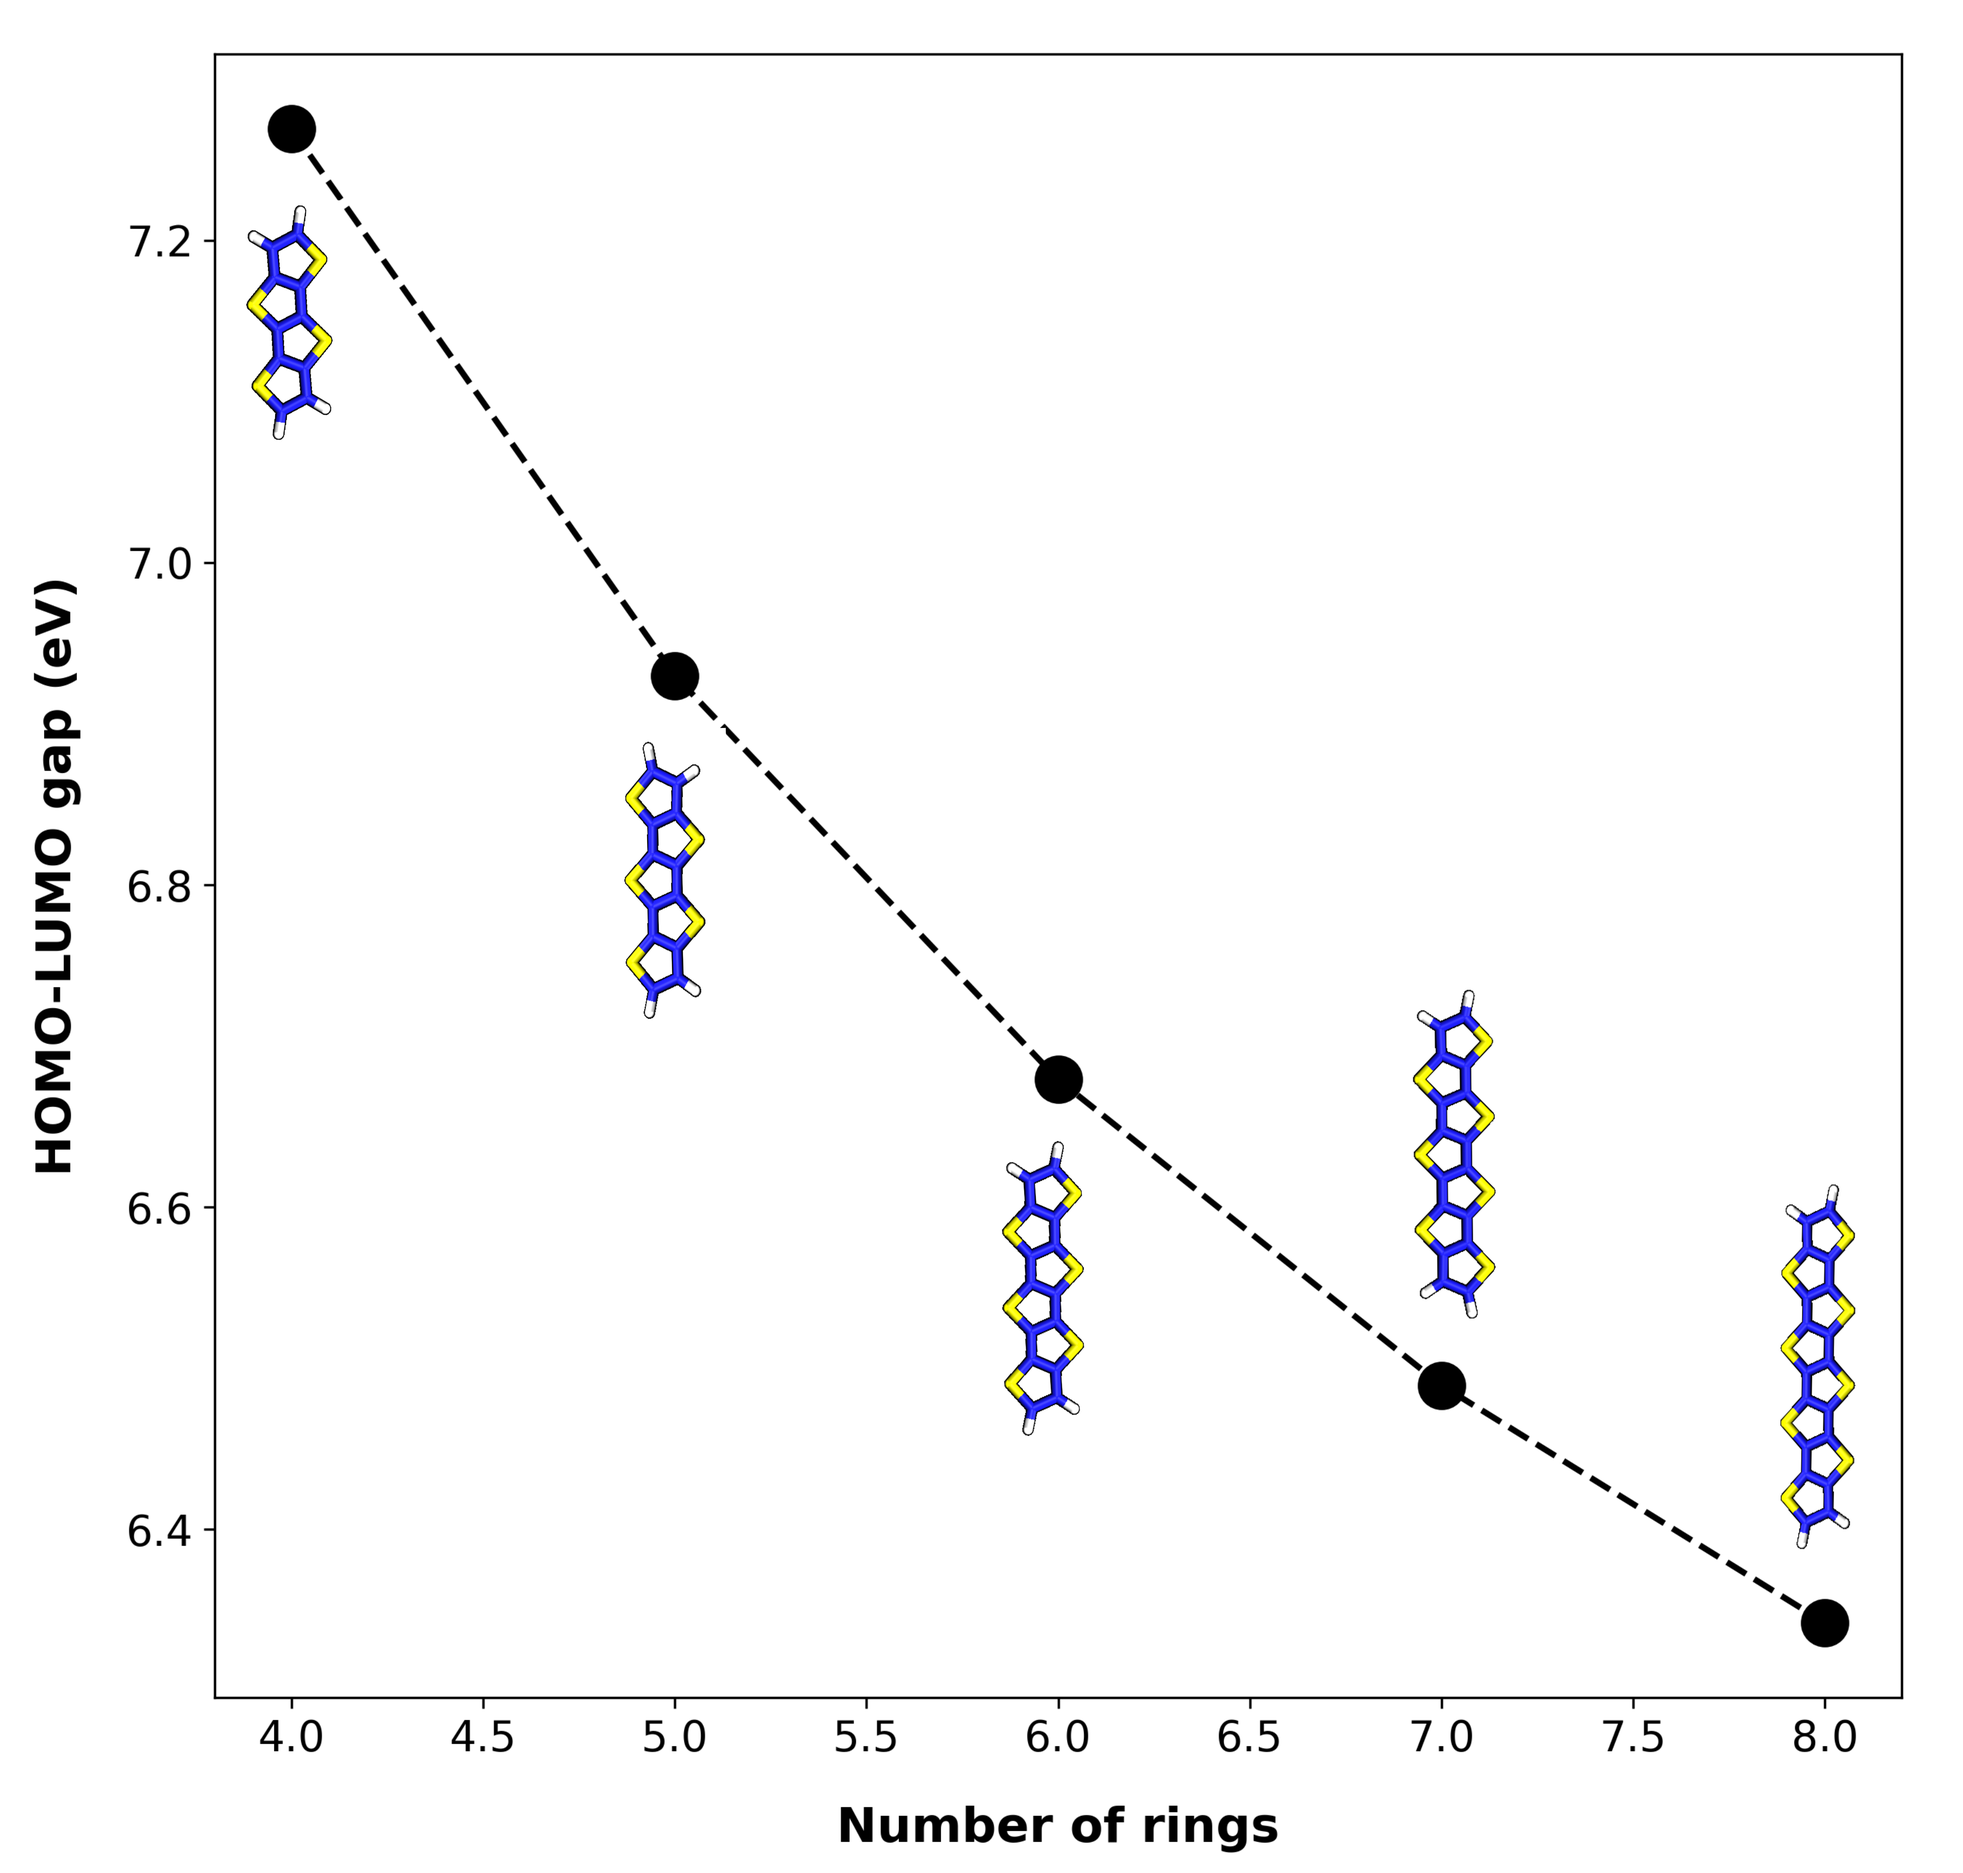
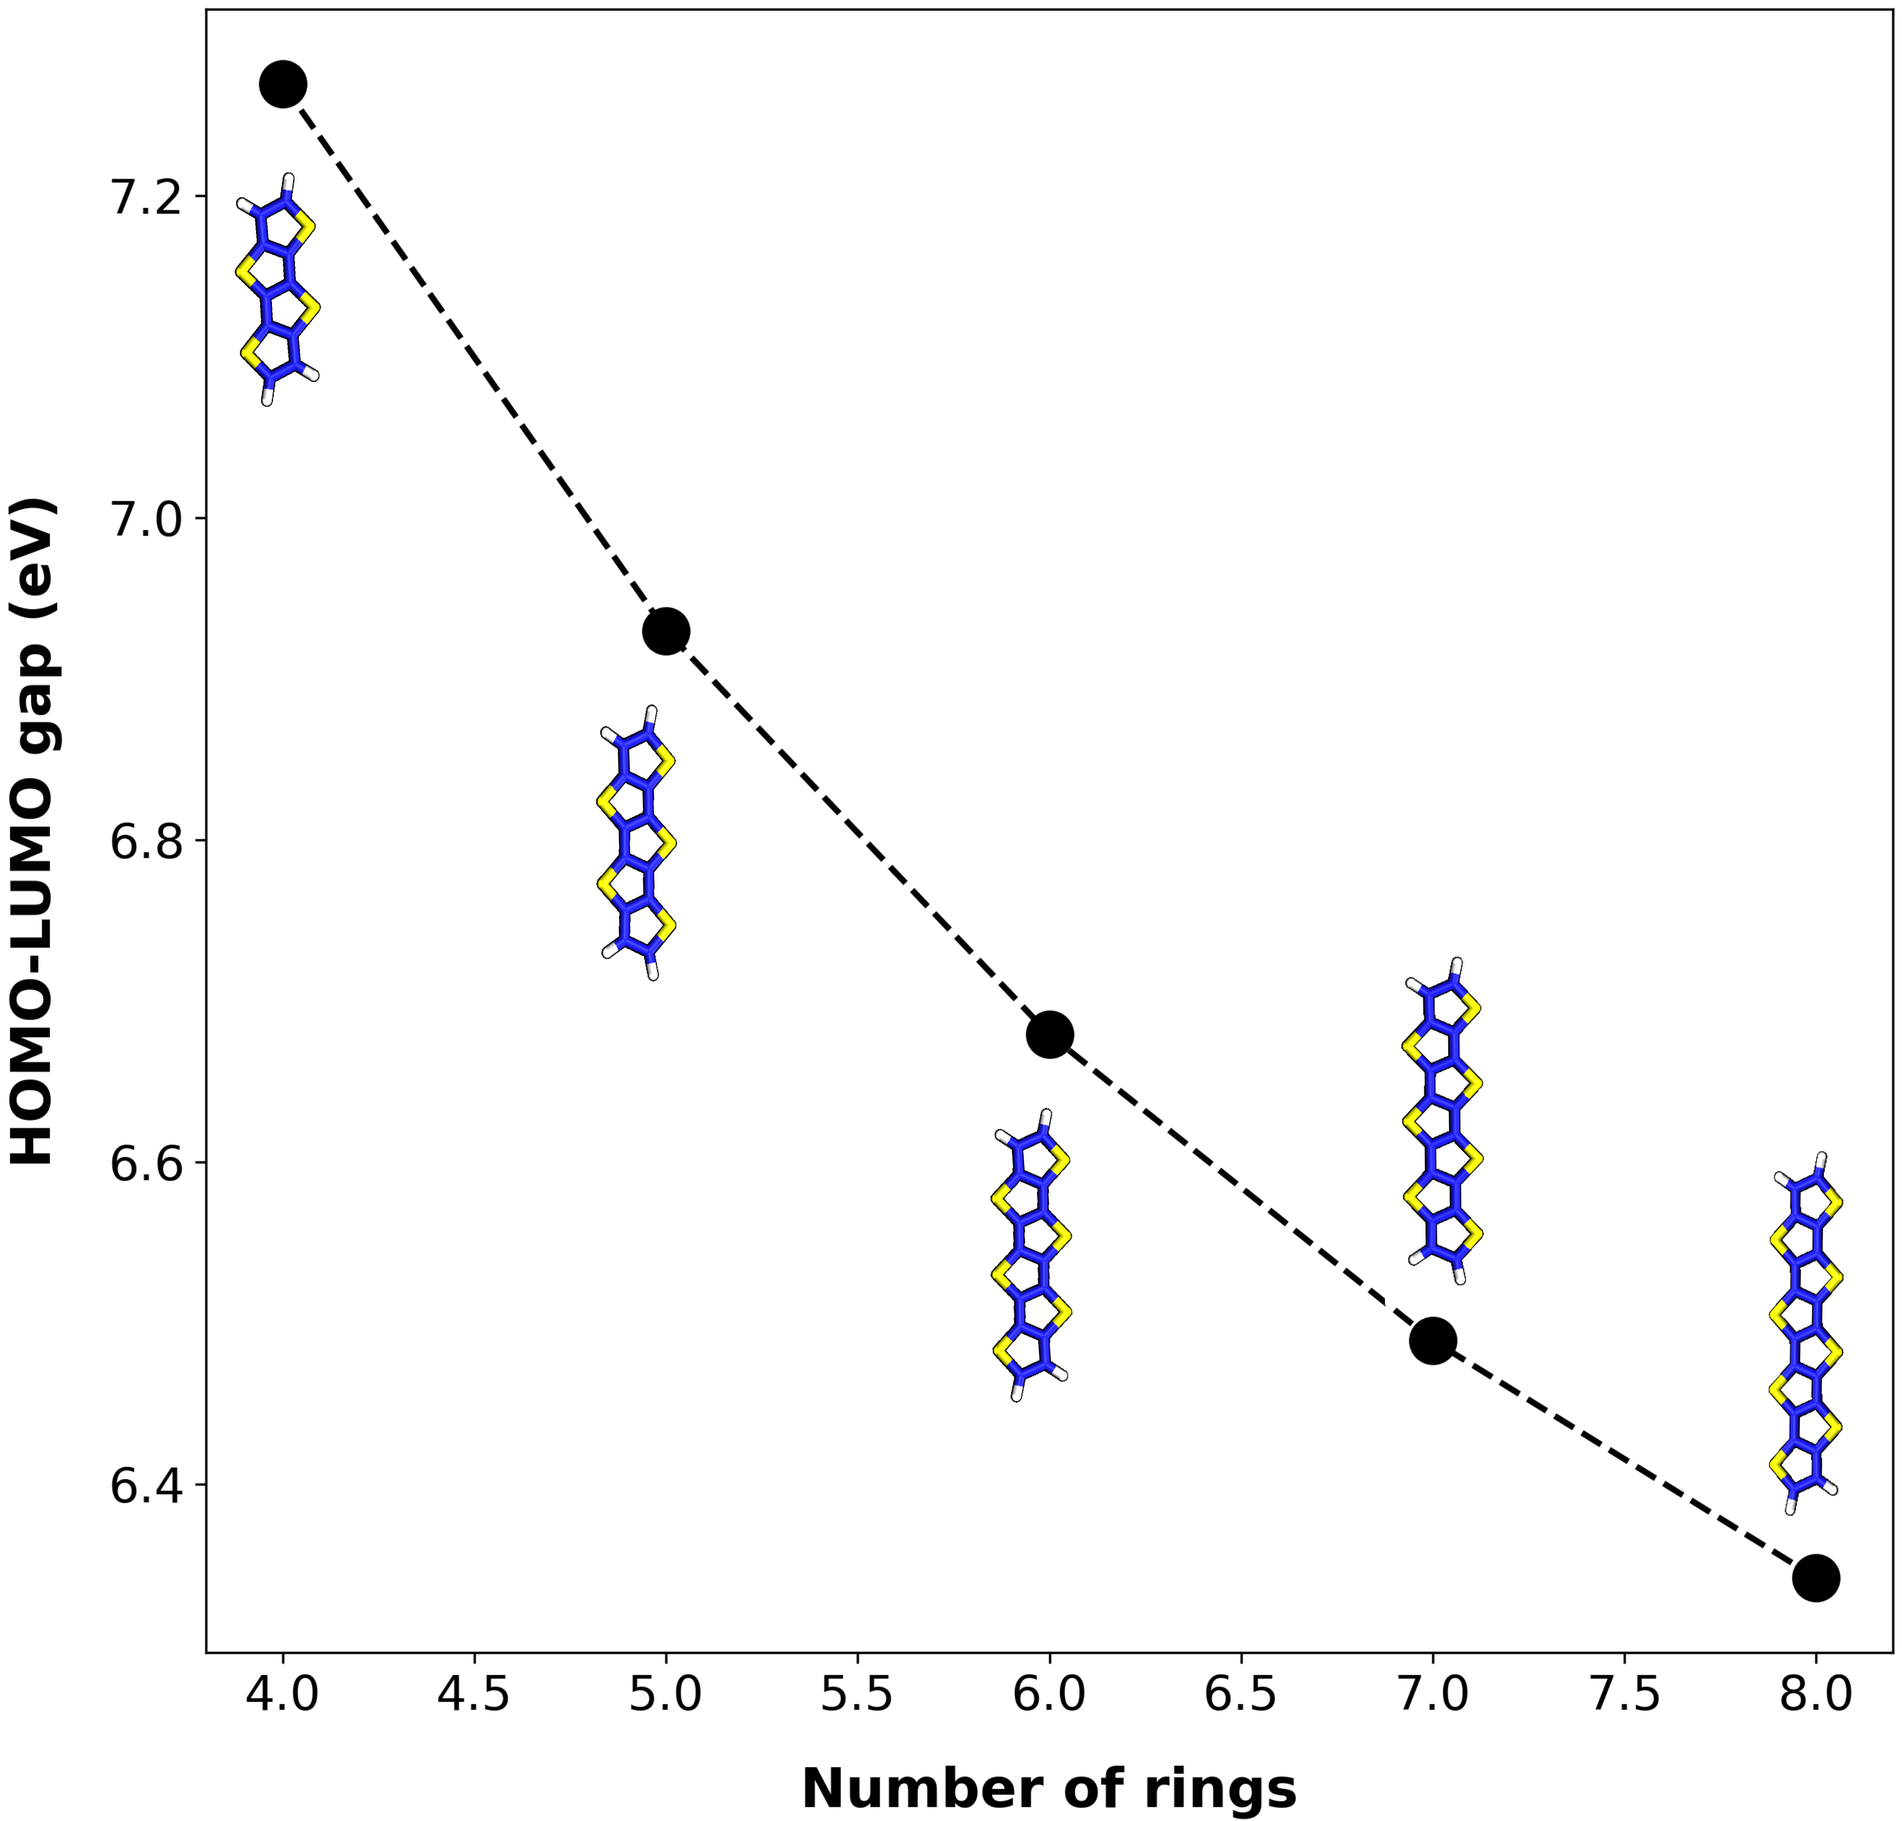
edits and made fused ring figure font bigger so I could shrink the fiigure in text

diff --git a/src/results.tex b/src/results.tex
@@ -61,8 +61,8 @@ frontier orbital energy levels \autoref{qccmethods}.
 \subsubsection{Experiment 1 Results}
 
 Our values for the HOMO-LUMO gap are plotted by oligomer length in \autoref{fig:fused}. 
-Our HOMO-LUMO gap ranges between $7.27eV$ and $6.34eV$. Consistent with our findings in \autoref{itic}, the
-wall time for these individual calculations were on the order of seconds. 
+Our HOMO-LUMO gap ranges between $7.27eV$ and $6.34eV$. Consistent with our findings using a larger data set
+in \autoref{itic}, the wall time for these individual calculations take place on the order of seconds. 
 
 Furthermore, it is known that there is a near linear
 relationship between HOMO-LUMO gap and oligomer length. We find that our use of pySCF (MINDO/3) replicates
@@ -75,7 +75,7 @@ These results compare well to the values found using ab initio DFT were between 
 
 \begin{figure}
   \center
-  \includegraphics[width = .8\textwidth]{figures/fused-ring-figure.png}
+  \includegraphics[width = .6\textwidth]{figures/fused-ring-figure.png}
   \caption{HOMO-LUMO gap obtained using MorphCT for fused-ring molecules of oligmer length $4-8$.}
   \label{fig:fused}
 \end{figure}
